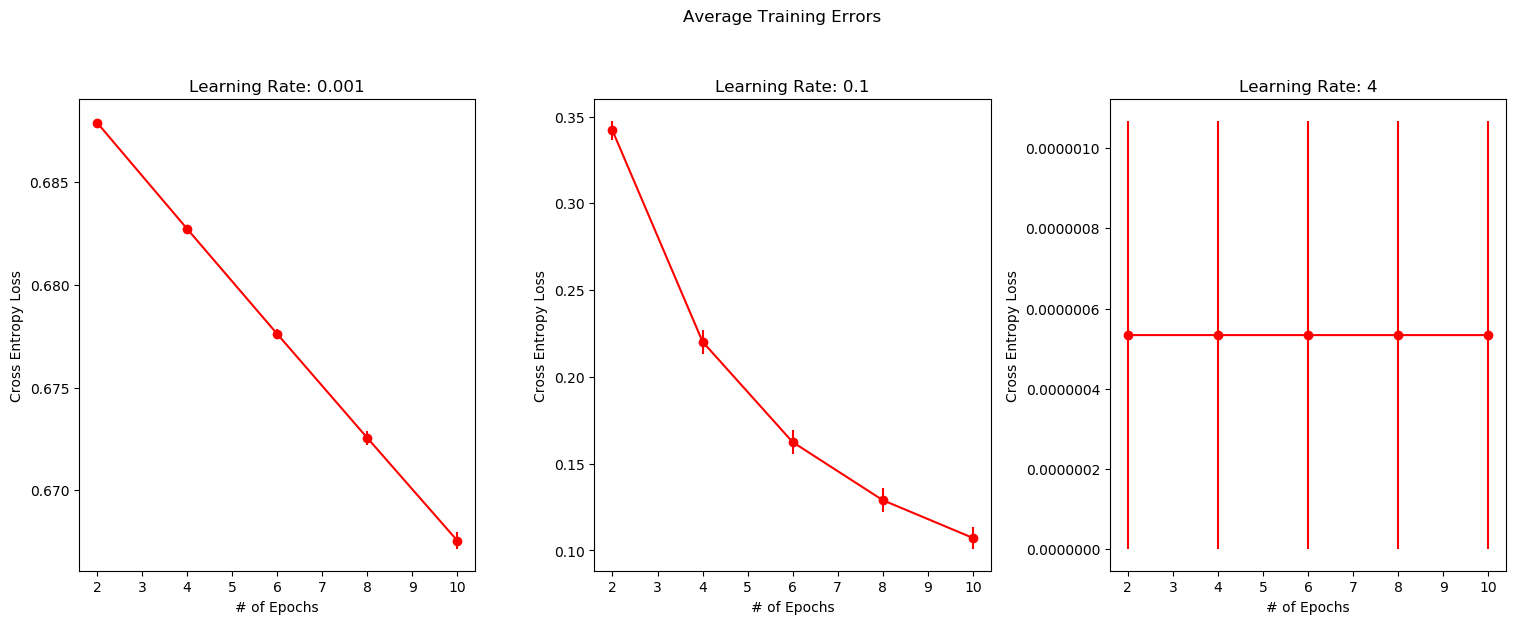
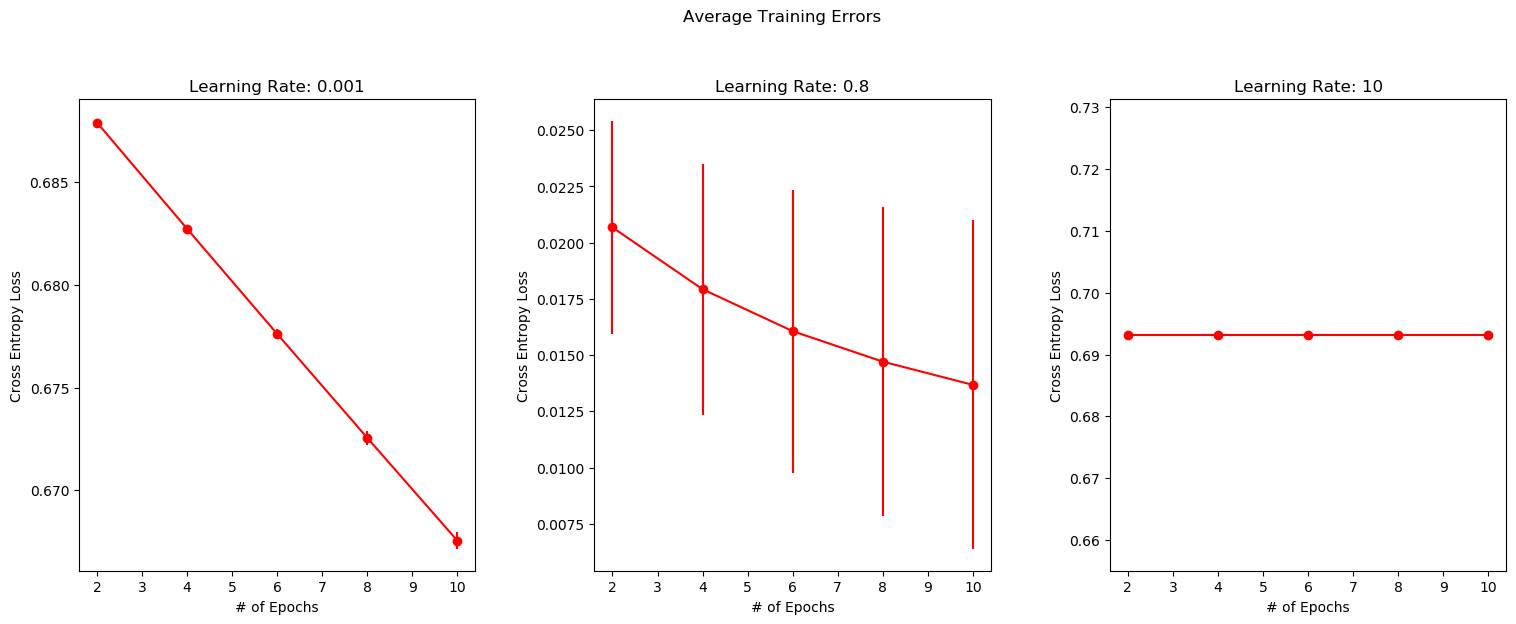
New graphs

diff --git a/154hw1_part2.py b/154hw1_part2.py
@@ -4,19 +4,33 @@ from dataloader import load_data
 import numpy as np
 import matplotlib.pyplot as plt
 
-test_learning_rates = input("Testing learning rates?(y/n): ").lower()
-test_learning_rates = test_learning_rates == 'y' or test_learning_rates == 'yes'
+test_single = input("Single test?(y/n): ").lower()
+test_single = test_single == 'y' or test_single == 'yes'
+test_learning_rates = None
+learning_rates = []
+k_pcas = None
+if not test_single:
+    test_learning_rates = input("Testing learning rates?(y/n): ").lower()
+    test_learning_rates = test_learning_rates == 'y' or test_learning_rates == 'yes'
+    learning_rates = [.001, .8, 10] if test_learning_rates else [.01, .05, .8, .5]
+    k_pcas = 8 if test_learning_rates else [1,2,4,8]
+else:
+    learning_rates = .5
+    k_pcas = 8
 
 train_set = []
 holdout_set = []
 test_set = []
-learning_rates = [.001, .1, 4] if test_learning_rates else [.01, .05, .8, .5]
-k_pcas = 8 if test_learning_rates else [1,2,4,8]
 epochs = 10
 c1 = 'ht'
 c2 = 'm'
 holdout_errors = []
 train_errors = []
+
+def append_one(image_set):
+    for (image,label), i in zip(image_set, range(len(image_set))):
+        image_set[i] = (np.array([np.insert(image, 0, 1)]), label)
+    return image_set
 
 def logistic_reg(w, x):
     return 1/(1+pow(np.e, -1 * (w.T.dot(x[0]))))
@@ -59,6 +73,32 @@ def batch_gradient_descent(epochs, learning_rate, dim_input):
 
     return w
 
+def single_test(data):
+    global train_errors
+    global holdout_errors
+    fig, ax_list = plt.subplots(nrows=1, ncols=1, figsize=(15,6), sharex=True)
+    fig.suptitle("Average Training Errors", y=1)
+    fig.tight_layout()
+    fig.subplots_adjust(top=.85, wspace=.3)
+
+    train_errors = [[],[],[],[],[]]
+    holdout_errors = [[],[],[],[],[]]
+    percent_correct = []
+
+    percent_correct = train_model(data, k_pcas, learning_rates, random=False)
+
+    train_mean, train_std = (list(map(np.mean, train_errors)), list(map(np.std, train_errors)))
+
+    graph = ax_list
+    graph.set_title("Learning Rate: " + str(learning_rates))
+    graph.set_ylabel("Cross Entropy Loss")
+    graph.set_xlabel("# of Epochs")
+    graph.errorbar([2,4,6,8,10], train_mean, train_std, linestyle='-', color='red', marker='o',)
+    mean = np.mean(percent_correct)
+    std_dev = np.std(percent_correct)
+    print("PCA={}, average % correct= {} ({})".format(k_pcas, mean, std_dev))
+    plt.savefig("single_test.png", bbox_inches='tight')
+
 def learning_rate_test(data):
     global train_errors
     global holdout_errors
@@ -80,6 +120,7 @@ def learning_rate_test(data):
         graph.errorbar([2,4,6,8,10], train_mean, train_std, linestyle='-', color='red', marker='o',)
 
     plt.savefig("lr_test.png", bbox_inches='tight')
+
 
 def pca_test(data):
     global train_errors
@@ -132,11 +173,11 @@ def train_model(slice_data, k, lr, random=True):
 
         p_c_a = pca.PCA(k)
         p_c_a.fit(np.array([image for image,_ in train_set]))
-        train_set = [(p_c_a.transform(np.array(image)), label) for image, label in train_set]
-        holdout_set = [(p_c_a.transform(np.array(image)), label) for image, label in holdout_set]
-        test_set = [(p_c_a.transform(np.array(image)), label) for image, label in test_set]
+        train_set = append_one([(p_c_a.transform(np.array(image)), label) for image, label in train_set])
+        holdout_set = append_one([(p_c_a.transform(np.array(image)), label) for image, label in holdout_set])
+        test_set = append_one([(p_c_a.transform(np.array(image)), label) for image, label in test_set])
 
-        w = batch_gradient_descent(epochs, lr, p_c_a.k)
+        w = batch_gradient_descent(epochs, lr, p_c_a.k + 1)
         percent_correct.append(sum([correct_category(w, image, 1 if c1 in label else 0) for image,label in test_set])/len(test_set))
     return percent_correct
 
@@ -144,10 +185,13 @@ def main():
     images, labels = load_data(data_dir="./CAFE/")
     data = zip(images,labels)
     slice_data = [(image, label) for image, label in data if c2 in label.strip('pgm') or c1 in label.strip('pgm')]
-    if test_learning_rates:
-        learning_rate_test(slice_data)
+    if test_single:
+        single_test(slice_data)
     else:
-        pca_test(slice_data)
+        if test_learning_rates:
+            learning_rate_test(slice_data)
+        else:
+            pca_test(slice_data)
 
 
 
